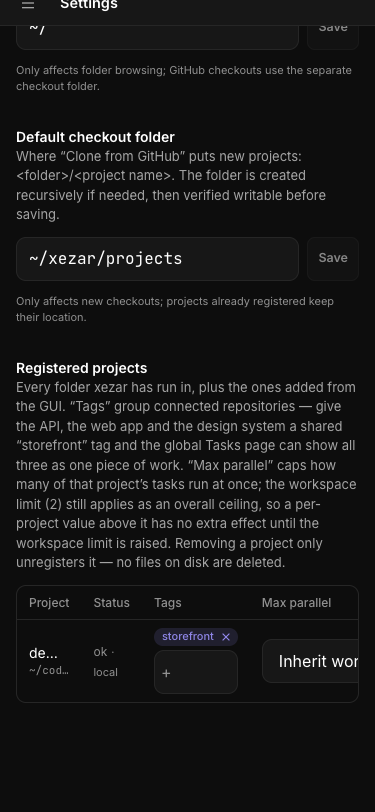
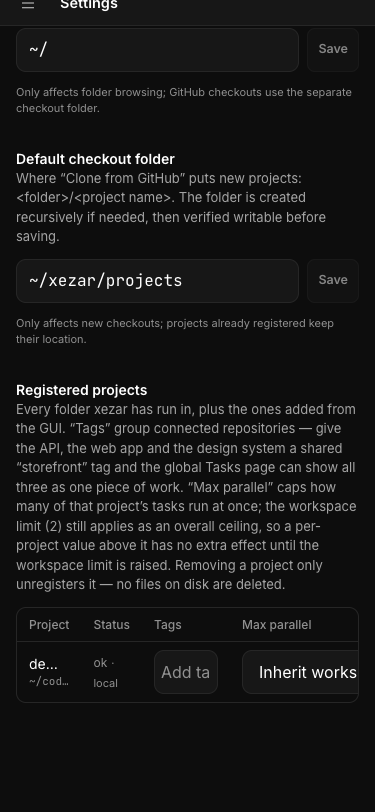
docs: describe Projects screenshot phone overflow accurately

Changed region(s): [[0.0293, 0.0308, 0.968, 0.8621]]

diff --git a/packages/web/e2e/capture/manifest.ts b/packages/web/e2e/capture/manifest.ts
@@ -69,7 +69,7 @@ export const SHOT_STATES: readonly ShotState[] = [
   // compare against.
   {
     name: 'settings-projects',
-    shows: 'Global Settings → Projects: the registered-projects table, and how it folds on a phone',
+    shows: 'Global Settings → Projects: the registered-projects table; at 375 px, columns extend beyond the right edge (known gap G-30)',
     variants: [['dark', 1280], ['light', 1280], ['dark', 375]],
   },
 ]

diff --git a/docs/screenshots/0.16.0/README.md b/docs/screenshots/0.16.0/README.md
@@ -87,7 +87,7 @@ agent-browser) and then its own fixture server. It is not part of `npm run test:
 | [`settings-resources-dark-1280.png`](settings-resources-dark-1280.png) | Global Settings → Resources: parallel tasks, monitoring sessions and limits | dark | 1280 × 800 |
 | [`settings-mcp-connection-dark-1280.png`](settings-mcp-connection-dark-1280.png) | Project Settings → MCP connection with the leader status | dark | 1280 × 800 |
 | [`command-palette-dark-1280.png`](command-palette-dark-1280.png) | The ⌘K command palette open | dark | 1280 × 800 |
-| [`settings-projects-dark-1280.png`](settings-projects-dark-1280.png) | Global Settings → Projects: the registered-projects table, and how it folds on a phone | dark | 1280 × 800 |
-| [`settings-projects-light-1280.png`](settings-projects-light-1280.png) | Global Settings → Projects: the registered-projects table, and how it folds on a phone | light | 1280 × 800 |
-| [`settings-projects-dark-375.png`](settings-projects-dark-375.png) | Global Settings → Projects: the registered-projects table, and how it folds on a phone | dark | 375 × 812 |
+| [`settings-projects-dark-1280.png`](settings-projects-dark-1280.png) | Global Settings → Projects: the registered-projects table; at 375 px, columns extend beyond the right edge (known gap G-30) | dark | 1280 × 800 |
+| [`settings-projects-light-1280.png`](settings-projects-light-1280.png) | Global Settings → Projects: the registered-projects table; at 375 px, columns extend beyond the right edge (known gap G-30) | light | 1280 × 800 |
+| [`settings-projects-dark-375.png`](settings-projects-dark-375.png) | Global Settings → Projects: the registered-projects table; at 375 px, columns extend beyond the right edge (known gap G-30) | dark | 375 × 812 |
 | [`tour.gif`](tour.gif) | A tour: the task list, a new task typed and started, the running thread, review, a draft PR, and the list again | dark | 1280 × 800 |

diff --git a/.xezar/docs/dogfooding.d/ae81a424-e0fb-4ae2-a0b8-7ce0c8add9a1.md b/.xezar/docs/dogfooding.d/ae81a424-e0fb-4ae2-a0b8-7ce0c8add9a1.md
@@ -1,0 +1,6 @@
+### 2026-09-20 — Projects screenshot caption reconciliation
+
+- The 375 px Projects capture still shows G-30: registered-project columns extend beyond the right edge. Retained this useful before-picture and corrected the manifest caption; the capture harness regenerated its README and three Projects PNGs.
+- NB-1 visual re-check: 30 readable desktop PNG footers and all 13 tour frames show v0.16.0. The two Roomy desktop footers truncate to v0…; they cannot establish the full version visually. The existing rewrite derives the version from the 0.16.0 folder, so no stale-version re-capture was needed.
+- Filtering the capture to settings-projects and the generated index leaves Tags empty: the storefront tag is added by the separate all-tasks scenario. The new pictures also show the current fixture registration date. No fixture or product change was made.
+- Focused screenshot and design-system drift guards passed (49 tests), as did npm run typecheck. Canonical gates and independent design review remain subsequent stages.
